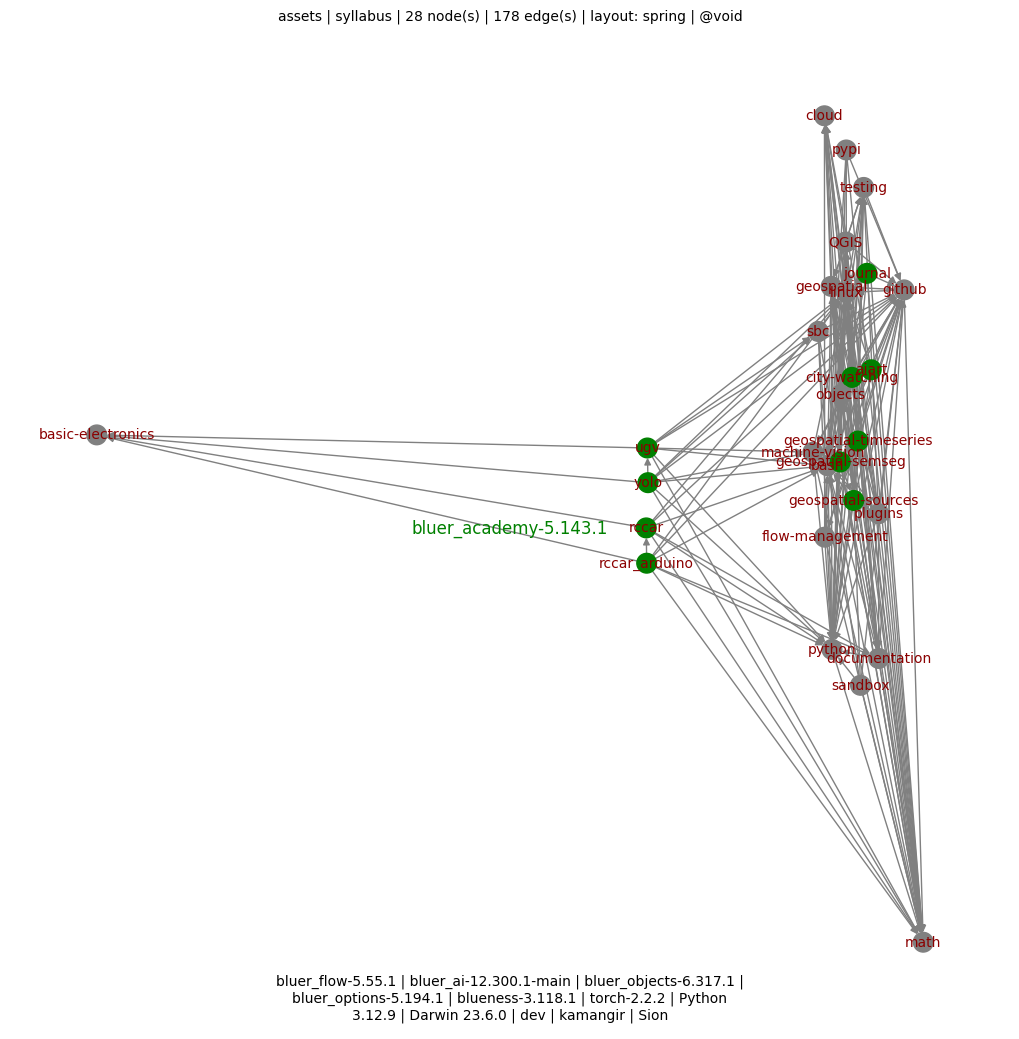
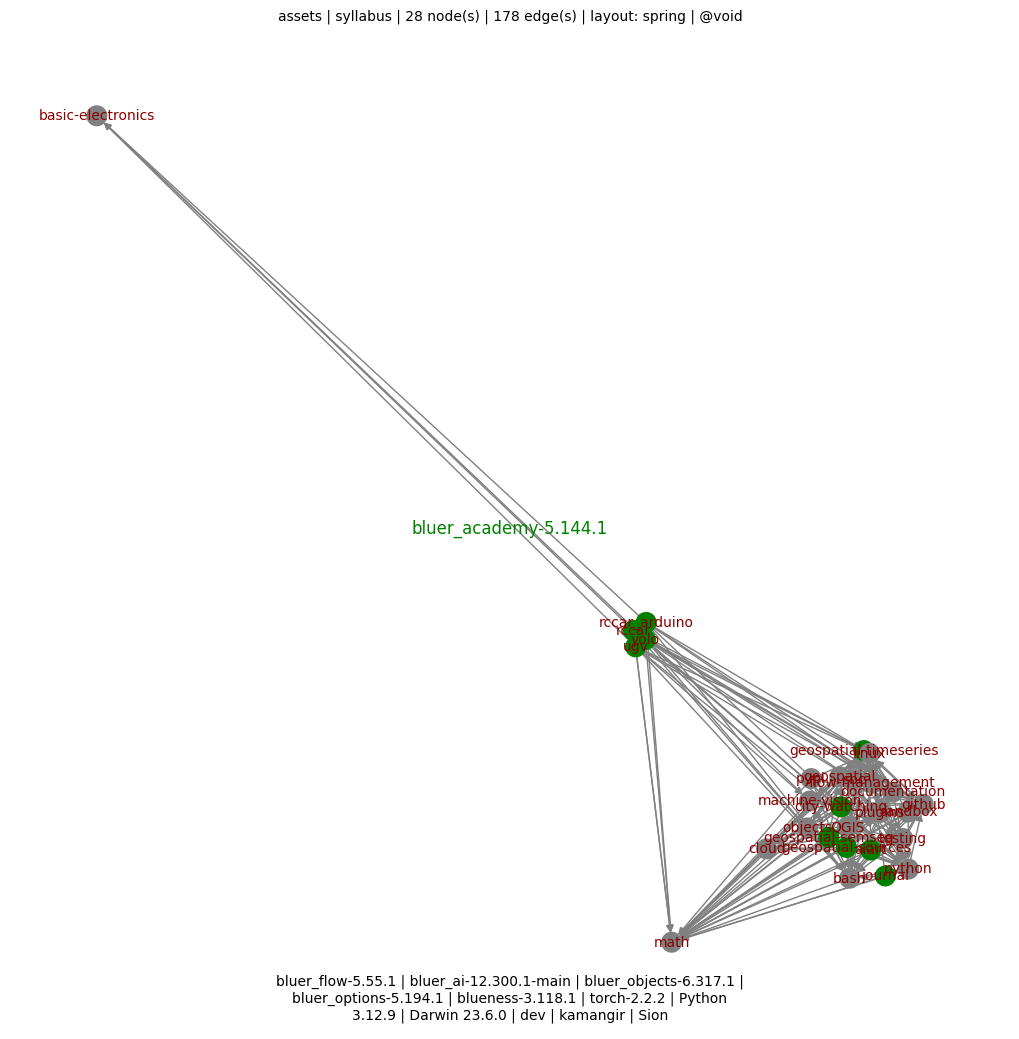
++ - kamangir/bolt#746

diff --git a/bluer_academy/README/build.py b/bluer_academy/README/build.py
@@ -31,6 +31,7 @@ def build():
                 {
                     "path": "../..",
                     "items": items,
+                    "cols": 5,
                 },
                 {
                     "path": "../docs",

diff --git a/bluer_academy/__init__.py b/bluer_academy/__init__.py
@@ -4,7 +4,7 @@ ICON = "📐"
 
 DESCRIPTION = f"{ICON} an academy for practical AI in Iran."
 
-VERSION = "5.143.1"
+VERSION = "5.144.1"
 
 REPO_NAME = "bluer-academy"
 

diff --git a/README.md b/README.md
@@ -15,4 +15,4 @@ pip install bluer-academy
 
 [![pylint](https://github.com/kamangir/bluer-academy/actions/workflows/pylint.yml/badge.svg)](https://github.com/kamangir/bluer-academy/actions/workflows/pylint.yml) [![pytest](https://github.com/kamangir/bluer-academy/actions/workflows/pytest.yml/badge.svg)](https://github.com/kamangir/bluer-academy/actions/workflows/pytest.yml) [![bashtest](https://github.com/kamangir/bluer-academy/actions/workflows/bashtest.yml/badge.svg)](https://github.com/kamangir/bluer-academy/actions/workflows/bashtest.yml) [![PyPI version](https://img.shields.io/pypi/v/bluer-academy.svg)](https://pypi.org/project/bluer-academy/) [![PyPI - Downloads](https://img.shields.io/pypi/dd/bluer-academy)](https://pypistats.org/packages/bluer-academy)
 
-built by 🌀 [`bluer README`](https://github.com/kamangir/bluer-objects/tree/main/bluer_objects/README), based on 📐 [`bluer_academy-5.143.1`](https://github.com/kamangir/bluer-academy).
+built by 🌀 [`bluer README`](https://github.com/kamangir/bluer-objects/tree/main/bluer_objects/README), based on 📐 [`bluer_academy-5.144.1`](https://github.com/kamangir/bluer-academy).
